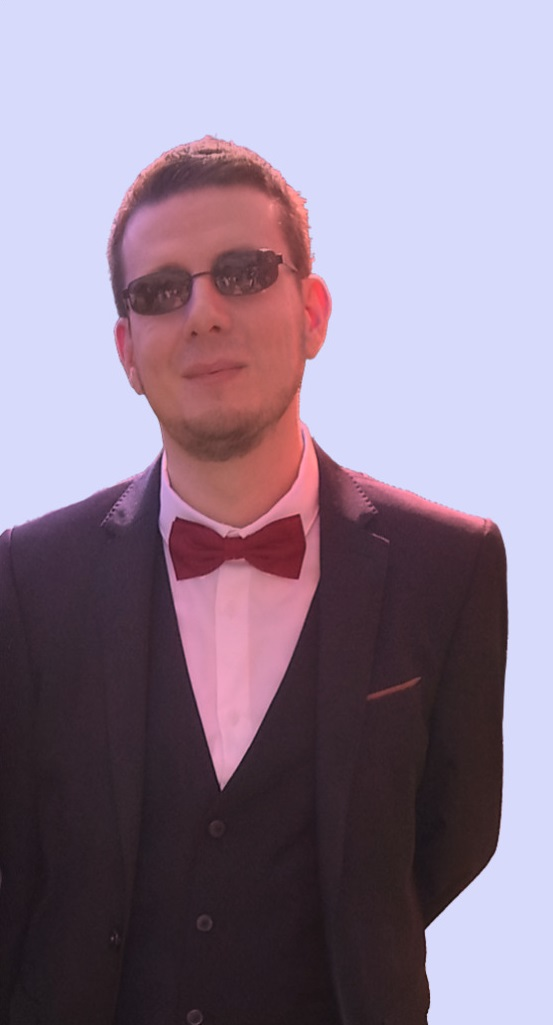
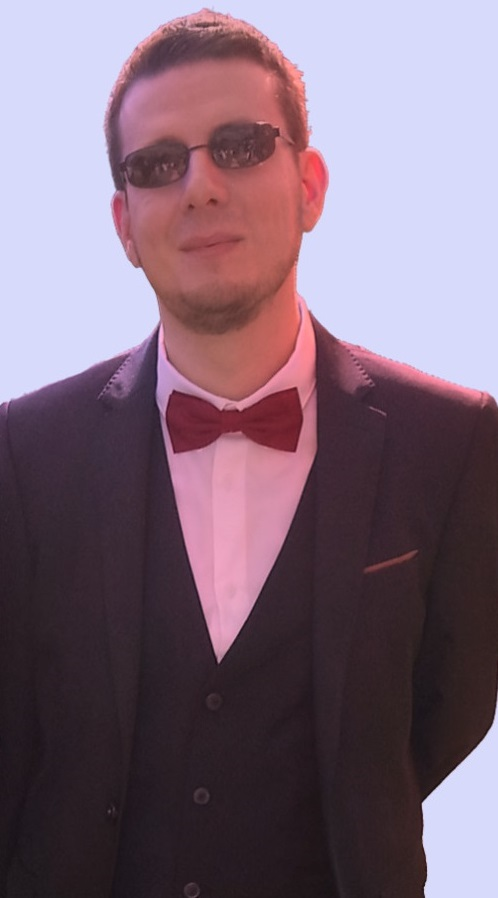
Add files via upload

diff --git a/portfolio/main.css b/portfolio/main.css
@@ -1,12 +1,26 @@
-.tooltip {
-    --bs-tooltip-bg: var(--bs-primary);
-  }
-  .card-body {
-    display: flex;
-    flex-direction: column;
-  }
+.photoprofile
+{
+  display: flex;
+  align-items:center;
+  margin: auto;
+  width : 80%;
+  height :85vh;
+  border-radius: 8px;
+  opacity: 0.8;
+}
+
+
+.tooltip 
+{
+  --bs-tooltip-bg: var(--bs-primary);
+}
+.card-body {
+  display: flex;
+  flex-direction: column;
+}
   
-  button {
-    margin-top: auto;
-  }
+button 
+{
+  margin-top: auto;
+}
 
